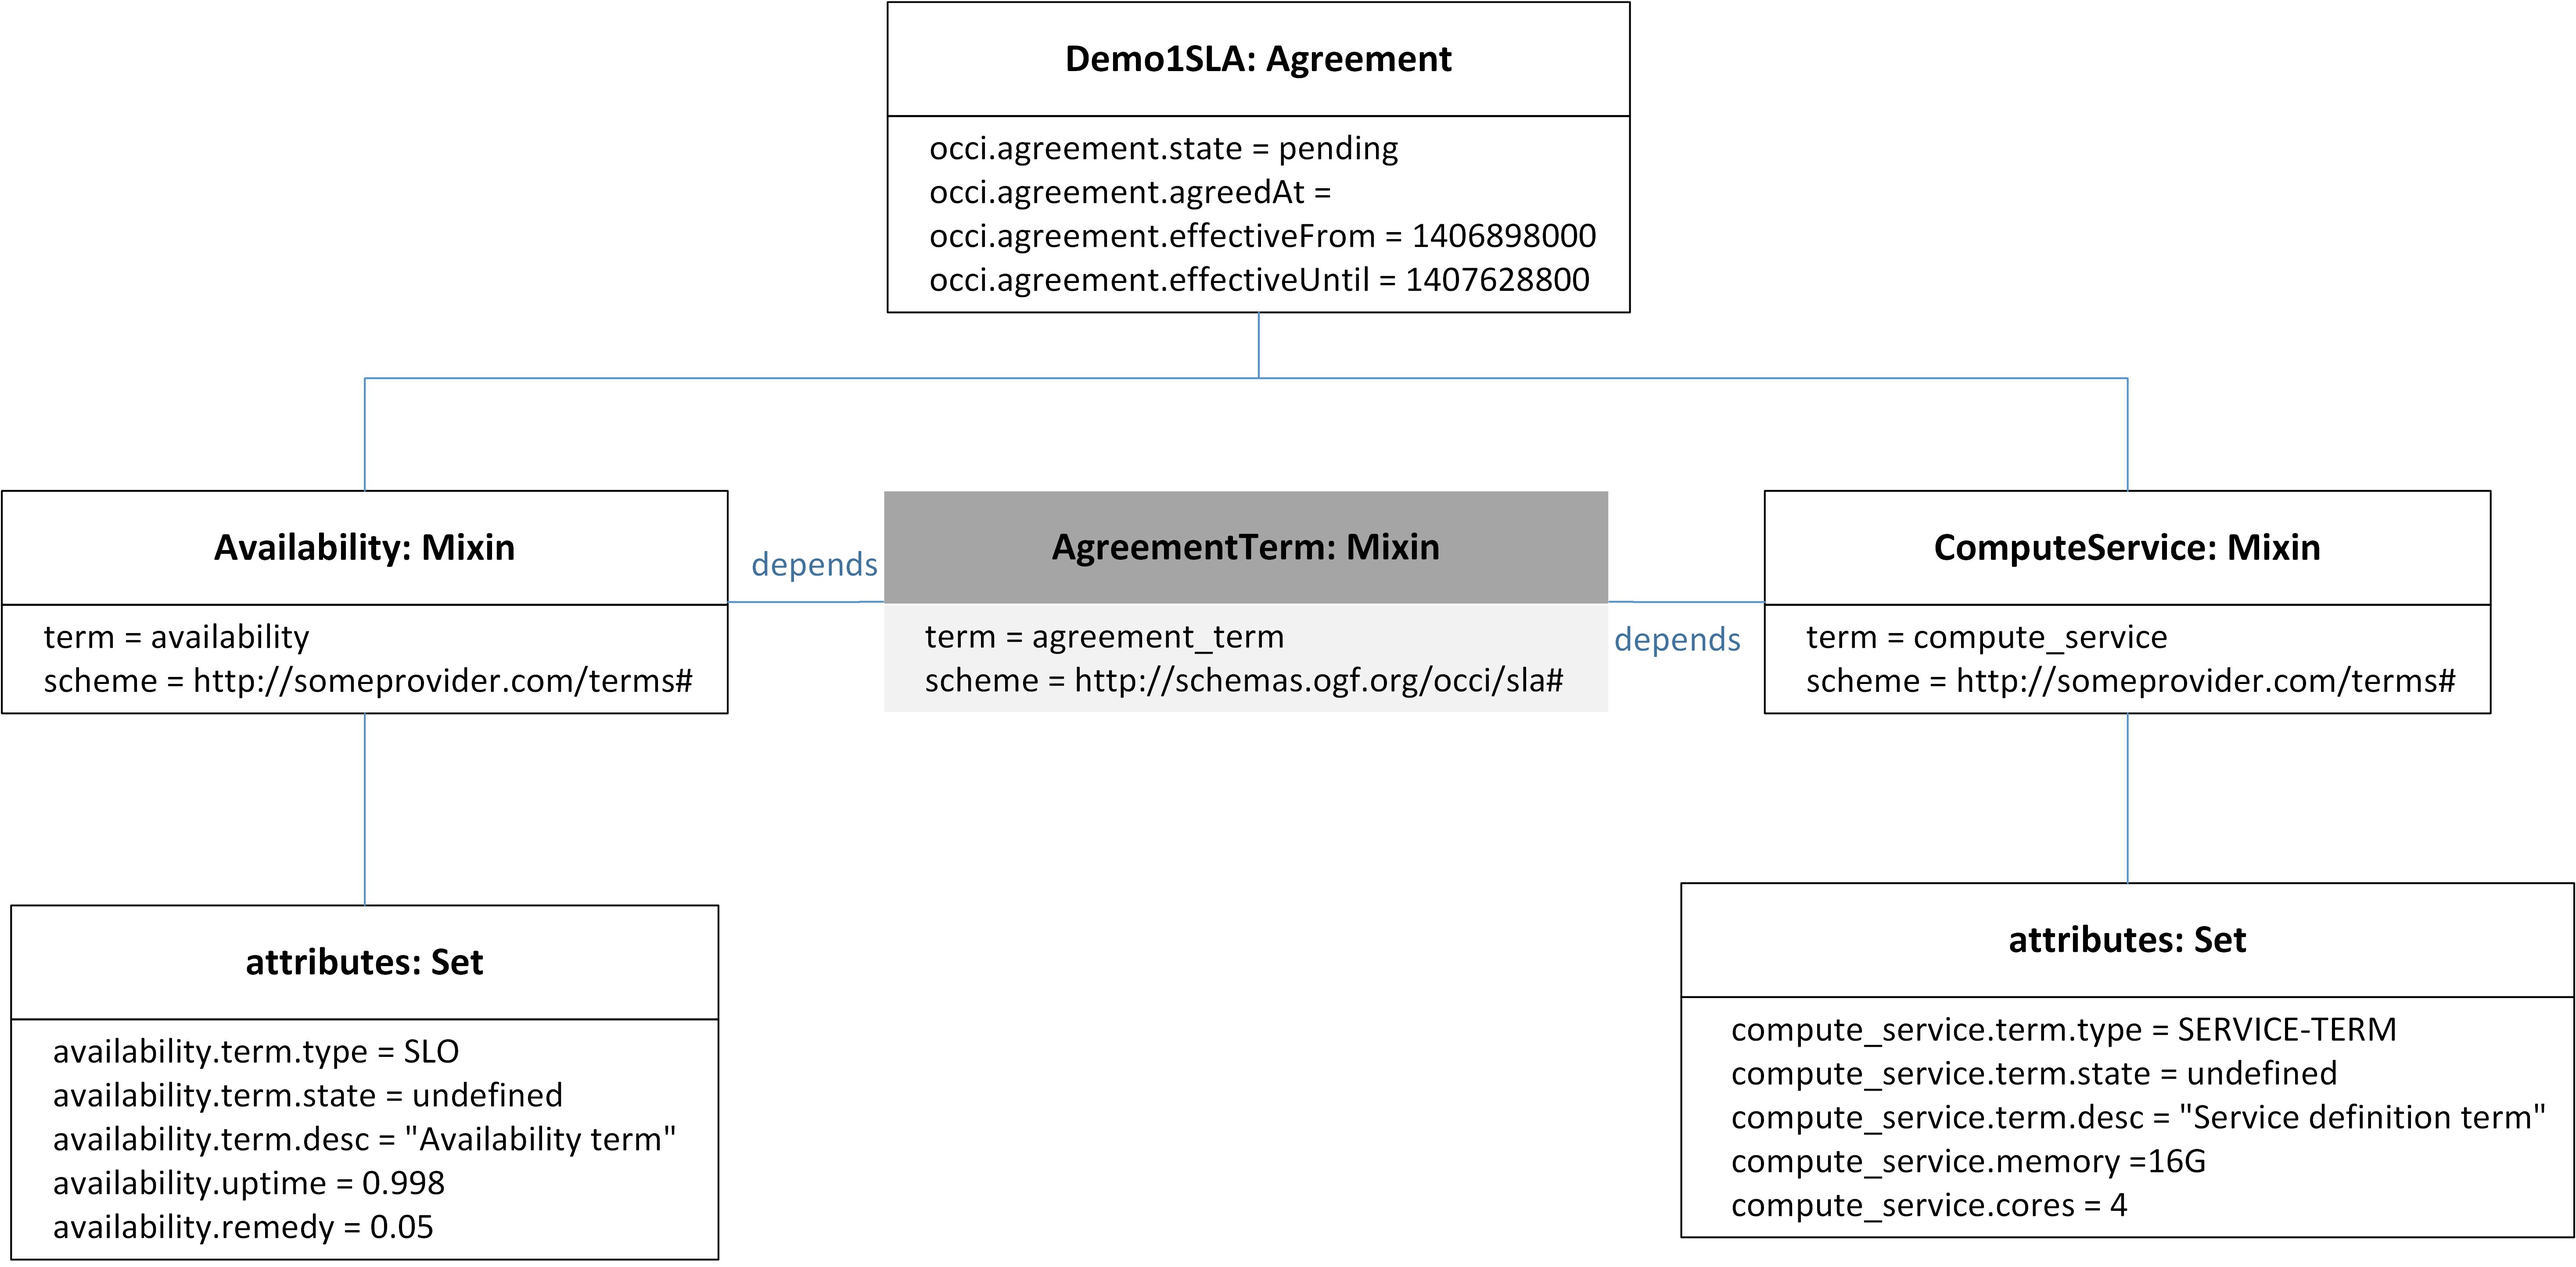
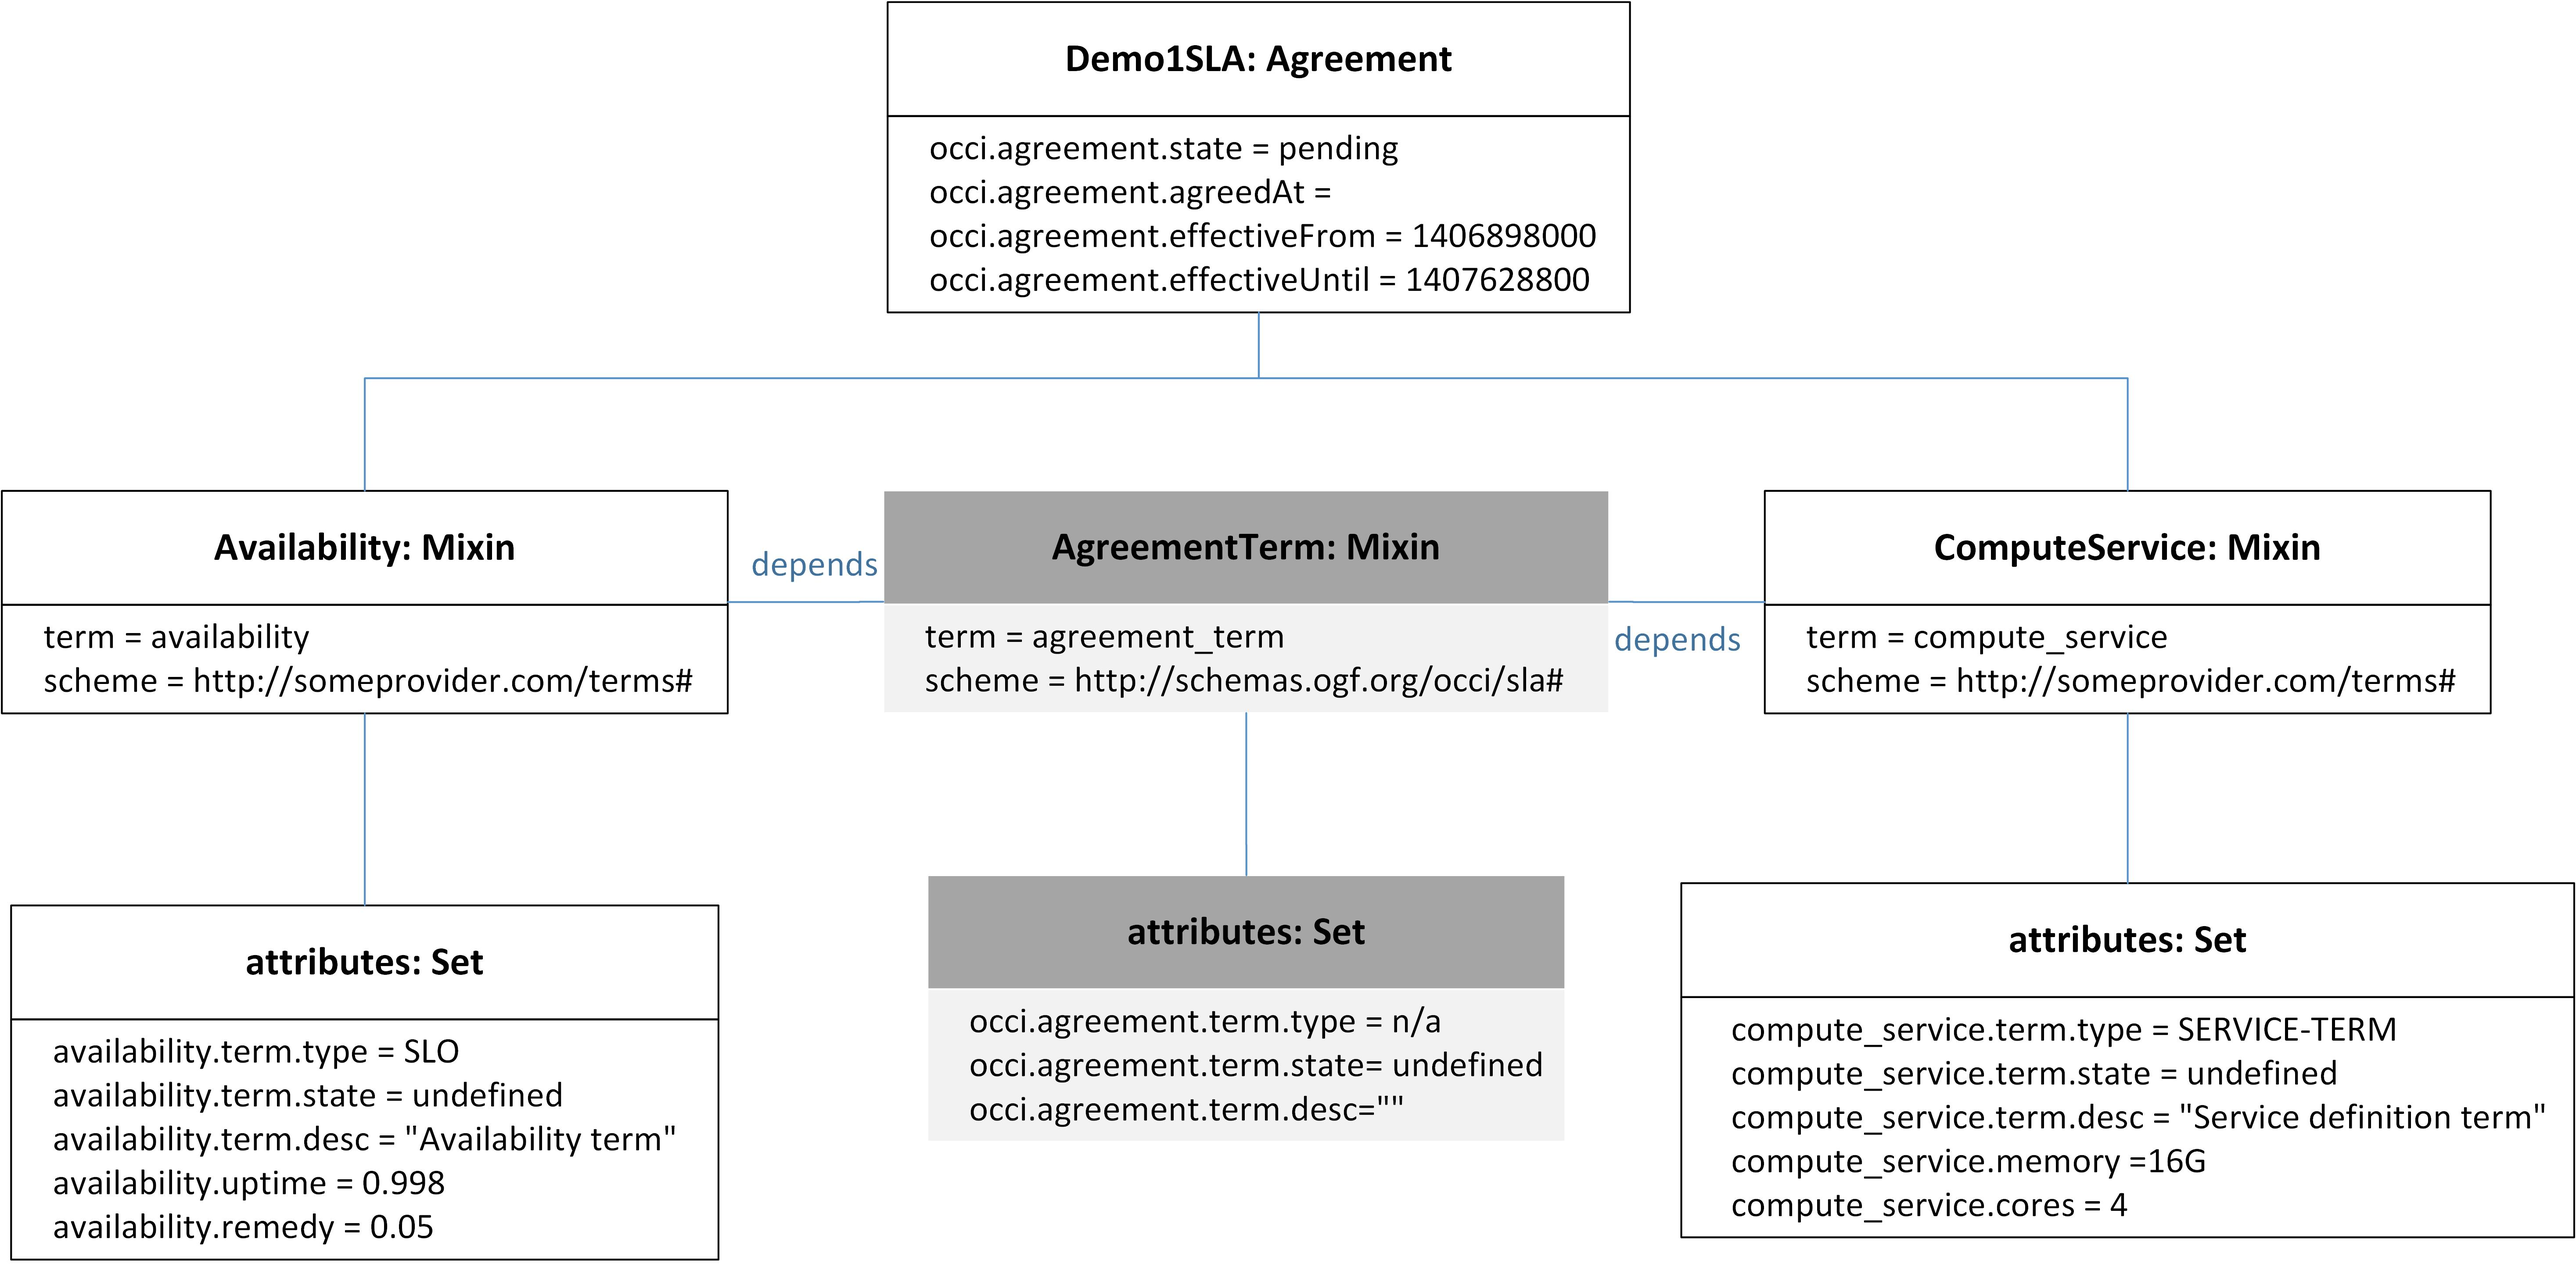
agreement states updated, term states when multiple terms updated

Changed region(s): [[0.343, 0.6856, 0.6236, 0.9037]]

diff --git a/occi-slas.tex b/occi-slas.tex
@@ -167,7 +167,7 @@ Table~\ref{tbl:agreement} describes the attributes defined by the \hl{Agreement}
 	\toprule
 	Attribute&Type&Multi\-plicity&Mutability&Description\\
 	\colrule
-	occi.agreement.state & Enum \{Pending, Accepted, Rejected, Suspended\} & 1 & Immutable & Current state of the instance.\\
+	occi.agreement.state & Enum \{Pending, Accepted, Rejected, Suspended, Terminated\} & 1 & Immutable & Current state of the instance.\\
 	occi.agreement.agreedAt & Datetime (ISO8601) & 0\ldots1 & Immutable & The point in time when the agreement was made. \\
 	occi.agreement.effectiveFrom & Datetime (ISO8601) & 0\ldots1 & Mutable & The point in time when the agreement’s effectiveness begins. \\
 	occi.agreement.effectiveUntil & Datetime (ISO8601) & 0\ldots1 & Mutable & The point in time when the agreement’s effectiveness ends. \\
@@ -199,6 +199,7 @@ The actions that are applicable to \hl{Agreement} instances are presented in Tab
 	reject & Rejected & -- \\
 	suspend & Suspended & -- \\
 	unsuspend & Accepted & -- \\
+	terminate & Terminated & -- \\
 	\botrule
 	\end{tabular}
 }
@@ -221,7 +222,7 @@ As can be seen in the example diagram bellow, the \hl{AgreementTemplate} mixin c
 \subsubsection{AgreementTerm Mixin}
 A necessary part of an agreement offer, as well as the consequent agreement, is the section of the agreement term. To this end, the OCCI SLAs suggests the introduction of the agreement terms through the \hl{Mixin} mechanism. The \hl{AgreementTerm Mixin} is assigned the “scheme” \textit{http://schemas.ogf.org/occi/sla\#} and the term \hl{agreement\_term}. An \hl{AgreementTerm} mixin MUST support these values. OCCI SLAs implementations SHOULD support this in order to provide a classification and definition mechanism for the various terms and conditions of the agreements. Therefore, the implementation of this functionality is OPTIONAL but RECOMMENDED. 
 
-Table~\ref{tbl:terms-attributes} shows the defined attributes for the \hl{AgreementTerm Mixin}. Following the rationale presented in the WS-Agreement specification \cite{ws-agreeement:2007} , OCCI SLAs defines two types of agreement terms: service terms and service level objectives (SLOs). The first includes information related with the service description and definition. The second refers to the guarantee terms that specify the service level which the two parties are agreeing to. A cloud service provider MAY introduce domain specific attributes to the \hl{AgreementTerm} mixin instances that he constructs, through the attributes set inherited from the \hl{Category} type. \hl{Mixin} relationships MAY be used in order to enforce classification of capabilities but also to allow resource specific instantiation of \hl{AgreementTerm}. For example, an availability \hl{Mixin} could be defined, which is related with the \hl{AgreementTerm Mixin} type. The provider, then, MAY choose to instantiate different availability mixins for compute or storage resources (or any other offered resource) based on his own definition of availability for those resources. 
+Table~\ref{tbl:terms-attributes} shows the defined attributes for the \hl{AgreementTerm Mixin}. Following the rationale presented in the WS-Agreement specification \cite{ws-agreeement:2007} , OCCI SLAs defines two types of agreement terms: service terms and service level objectives (SLOs). The first includes information related with the service description and definition. The second refers to the guarantee terms that specify the service level which the two parties are agreeing to. A cloud service provider MAY introduce domain specific attributes to the \hl{AgreementTerm} mixin instances that he constructs, through the attributes set inherited from the \hl{Category} type. \hl{Mixin} relationships MAY be used in order to enforce classification of capabilities but also to allow resource specific instantiation of \hl{AgreementTerm}. For example, an availability \hl{Mixin} could be defined, which is depended on the \hl{AgreementTerm Mixin} type. The provider, then, MAY choose to instantiate different availability mixins for compute or storage resources (or any other offered resource) based on his own definition of availability for those resources. 
 
 
 
@@ -234,7 +235,7 @@ Table~\ref{tbl:terms-attributes} shows the defined attributes for the \hl{Agreem
 	\toprule
 	Attribute&Type&Multi\-plicity&Mutability&Description\\
 	\colrule
-	occi.agreement.term.type & Enum \{SERVICE-TERM,SLO\} & 1 & Immutable & The type of the term that is being defined.\\
+	occi.agreement.term.type & Enum \{SERVICE-TERM,SLO, n/a\} & 1 & Immutable & The type of the term that is being defined.\\
 	occi.agreement.term.state & Enum \{Undefined,Fulfilled  Violated\} & 1 & Immutable & The state of fulfillment of the specific term. \\
 	occi.agreement.term.desc & String & 0\ldots1 & Immutable & The description of the agreement term defined with this mixin. \\
 	\botrule
@@ -243,7 +244,7 @@ Table~\ref{tbl:terms-attributes} shows the defined attributes for the \hl{Agreem
 
 
 
-The \hl{AgreementTerm} state can be either \textit{undefined}, \textit{fulfilled} or \textit{violated} (Figure~\ref{fig:terms-states}). The undefined state is the initial state of the term until an assessment is made. During runtime and while the service and SLA is being monitored the state MUST be fulfilled or violated. If at least one term in an agreement has state violated, then the agreement is considered violated.
+The \hl{AgreementTerm} state can be either \textit{undefined}, \textit{fulfilled} or \textit{violated} (Figure~\ref{fig:terms-states}). The undefined state is the initial state of the term until an assessment is made. During runtime and while the service and SLA is being monitored the state MUST be fulfilled or violated. When multiple terms exist (e.g. provider specific terms) then if at least one term in an agreement has state violated, then the agreement is considered violated (\textit{occi.agreement.term.state=violated}).
 
 \begin{figure}[!h]
 	{\centering \resizebox*{0.6\columnwidth}{!}{{\includegraphics{figs/terms-states.jpg}}} \par}
